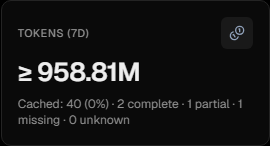
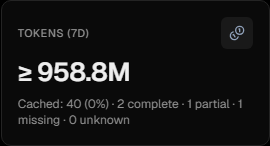
fix(dashboard): round token totals to tenths and remove the timing note

Changed region(s): [[0.3852, 0.411, 0.5333, 0.5753]]

diff --git a/frontend/src/utils/formatters.ts b/frontend/src/utils/formatters.ts
@@ -24,7 +24,9 @@ const compactOptions = {
   maximumFractionDigits: 2,
 } as const;
 const compactFormatter = new Intl.NumberFormat("en-US", compactOptions);
-const compactFloorFormatter = new Intl.NumberFormat("en-US", { ...compactOptions, roundingMode: "floor" });
+const tokenCompactOptions = { ...compactOptions, maximumFractionDigits: 1 } as const;
+const tokenTotalFormatter = new Intl.NumberFormat("en-US", tokenCompactOptions);
+const tokenLowerBoundFormatter = new Intl.NumberFormat("en-US", { ...tokenCompactOptions, roundingMode: "floor" });
 const currencyFormatter = new Intl.NumberFormat("en-US", {
   style: "currency",
   currency: "USD",
@@ -199,10 +201,13 @@ export function formatNumber(value: unknown): string {
   return numeric === null ? "--" : getNumberFormatter().format(numeric);
 }
 
-export function formatCompactNumber(value: unknown, rounding: "nearest" | "floor" = "nearest"): string {
+export function formatCompactNumber(value: unknown): string {
   const numeric = toNumber(value);
-  const formatter = rounding === "floor" ? compactFloorFormatter : compactFormatter;
-  return numeric === null ? "--" : formatter.format(numeric);
+  return numeric === null ? "--" : compactFormatter.format(numeric);
+}
+
+export function formatCompactTokenTotal(tokens: number, complete: boolean): string {
+  return complete ? tokenTotalFormatter.format(tokens) : `≥ ${tokenLowerBoundFormatter.format(tokens)}`;
 }
 
 export function formatCurrency(value: unknown): string {

diff --git a/frontend/src/features/dashboard/components/dashboard-page.tsx b/frontend/src/features/dashboard/components/dashboard-page.tsx
@@ -76,7 +76,6 @@ export function DashboardPage() {
   const [searchParams, setSearchParams] = useSearchParams();
   const queryClient = useQueryClient();
   const isDark = useThemeStore((s) => s.theme === "dark");
-  const refreshSeconds = useDashboardPreferencesStore((s) => s.refreshSeconds);
   const showAccountBurnrate = useDashboardPreferencesStore((s) => s.accountBurnrateEnabled);
   const accountViewMode = useDashboardPreferencesStore((s) => s.accountViewMode);
   const accountListSort = useDashboardPreferencesStore((s) => s.accountListSort);
@@ -471,7 +470,6 @@ export function DashboardPage() {
       ) : (
         <>
           <StatsGrid stats={view.stats} />
-          <p className="text-xs text-muted-foreground">{t("usage.tokens.timing", { seconds: refreshSeconds })}</p>
 
           {view.weeklyCreditPace ? (
             <div className="grid gap-4 xl:grid-cols-[minmax(0,2fr)_minmax(18rem,1fr)]">

diff --git a/frontend/src/features/dashboard/utils.ts b/frontend/src/features/dashboard/utils.ts
@@ -17,6 +17,7 @@ import { summarizeTokenUsage } from "@/utils/token-usage";
 import {
   formatCachedTokensMeta,
   formatCompactNumber,
+  formatCompactTokenTotal,
   formatCurrency,
   formatNumber,
   formatRate,
@@ -736,7 +737,7 @@ export function buildDashboardView(
       label: t("dashboard.stats.tokens", { timeframe: timeframeLabel }),
       value: largeTokenTotal === null
         ? tokenUsage.value
-        : tokenPrefix + formatCompactNumber(largeTokenTotal, tokenUsage.complete ? "nearest" : "floor"),
+        : formatCompactTokenTotal(largeTokenTotal, tokenUsage.complete),
       exactValue: largeTokenTotal === null ? undefined : tokenPrefix + formatNumber(largeTokenTotal),
       meta: `${formatCachedTokensMeta(metrics?.tokens, metrics?.cachedInputTokens)} · ${tokenUsage.note}`,
       comparison: buildStatComparison(metrics?.tokens, comparison?.previous.tokens ?? 0,

diff --git a/frontend/src/features/dashboard/components/stats-grid.test.tsx b/frontend/src/features/dashboard/components/stats-grid.test.tsx
@@ -14,11 +14,11 @@ describe("StatsGrid", () => {
   it("shows the exact lower bound when the token value receives keyboard focus", async () => {
     const user = userEvent.setup();
     render(<StatsGrid stats={[{
-      label: "Tokens (7d)", value: "≥ 958.81M", exactValue: "≥ 958,815,427",
+      label: "Tokens (7d)", value: "≥ 958.8M", exactValue: "≥ 958,815,427",
       icon: Coins, trend: EMPTY_TREND, trendColor: "#8b5cf6",
     }]} />, { wrapper: TooltipProvider });
     await user.tab();
-    expect(screen.getByRole("button", { name: "≥ 958.81M" })).toHaveFocus();
+    expect(screen.getByRole("button", { name: "≥ 958.8M" })).toHaveFocus();
     expect(await screen.findByRole("tooltip")).toHaveTextContent("≥ 958,815,427");
   });
 

diff --git a/frontend/src/features/dashboard/utils.test.ts b/frontend/src/features/dashboard/utils.test.ts
@@ -187,10 +187,10 @@ describe("buildRemainingItems", () => {
 
 describe("dashboard measured token coverage", () => {
   it.each([
-    [1_250, "1.25K", "1.25K", "1,250"],
-    [999_999, "1M", "999.99K", "999,999"],
-    [958_815_427, "958.82M", "958.81M", "958,815,427"],
-    [2_340_000_000, "2.34B", "2.34B", "2,340,000,000"],
+    [1_250, "1.3K", "1.2K", "1,250"],
+    [999_999, "1M", "999.9K", "999,999"],
+    [958_815_427, "958.8M", "958.8M", "958,815,427"],
+    [2_340_000_000, "2.3B", "2.3B", "2,340,000,000"],
   ] as const)("exposes compact and exact token totals for %s", (tokens, compact, lowerBound, exact) => {
     const overview = createDashboardOverview();
     const metrics = overview.summary.metrics!;

diff --git a/frontend/src/features/dashboard/components/dashboard-page.test.tsx b/frontend/src/features/dashboard/components/dashboard-page.test.tsx
@@ -308,6 +308,14 @@ describe("DashboardPage", () => {
     expect(screen.queryByRole("heading", { name: "Accounts" })).not.toBeInTheDocument();
   });
 
+  it("shows the quota cards directly below the summary cards", () => {
+    mockReadyDashboard();
+
+    renderWithProviders(<DashboardPage />);
+
+    expect(screen.getByTestId("stats-grid").nextElementSibling).toBe(screen.getByTestId("usage-donuts"));
+  });
+
   it("renders request-log loading inside its section without hiding overview content", () => {
     mockReadyDashboard({
       data: undefined,

diff --git a/openspec/specs/frontend-architecture/spec.md b/openspec/specs/frontend-architecture/spec.md
@@ -4264,12 +4264,12 @@ Each overview quota card MUST identify its window and measured average. When ava
 
 ### Requirement: Dashboard token total provides compact and exact counts
 
-The overview Tokens card MUST use compact K, M and B notation for large totals. The exact recorded token count MUST be available from the card. For incomplete usage, both presentations MUST retain the ≥ lower-bound indicator and the compact value MUST round down so the displayed bound never exceeds the observed total.
+The overview Tokens card MUST use compact K, M and B notation with at most one fractional digit for large totals. The exact recorded token count MUST be available from the card. For incomplete usage, both presentations MUST retain the ≥ lower-bound indicator and the compact value MUST round down so the displayed bound never exceeds the observed total.
 
 #### Scenario: Partial token total in the weekly overview
 
 - **WHEN** the seven-day token total includes 12,345,678 recorded tokens and some requests lack usage
-- **THEN** the card shows a compact total in millions prefixed with ≥
+- **THEN** the card shows ≥ 12.3M
 - **AND** inspecting the card's total reveals the exact lower bound of 12,345,678 tokens
 
 ### Requirement: Request-log plan badges fit their own column

diff --git a/openspec/changes/archive/2026-11-18-clarify-dashboard-quota-and-tokens/specs/frontend-architecture/spec.md b/openspec/changes/archive/2026-11-18-clarify-dashboard-quota-and-tokens/specs/frontend-architecture/spec.md
@@ -20,12 +20,12 @@ Each overview quota card MUST identify its window and measured average. When ava
 
 ### Requirement: Dashboard token total provides compact and exact counts
 
-The overview Tokens card MUST use compact K, M and B notation for large totals. The exact recorded token count MUST be available from the card. For incomplete usage, both presentations MUST retain the ≥ lower-bound indicator and the compact value MUST round down so the displayed bound never exceeds the observed total.
+The overview Tokens card MUST use compact K, M and B notation with at most one fractional digit for large totals. The exact recorded token count MUST be available from the card. For incomplete usage, both presentations MUST retain the ≥ lower-bound indicator and the compact value MUST round down so the displayed bound never exceeds the observed total.
 
 #### Scenario: Partial token total in the weekly overview
 
 - **WHEN** the seven-day token total includes 12,345,678 recorded tokens and some requests lack usage
-- **THEN** the card shows a compact total in millions prefixed with ≥
+- **THEN** the card shows ≥ 12.3M
 - **AND** inspecting the card's total reveals the exact lower bound of 12,345,678 tokens
 
 ### Requirement: Request-log plan badges fit their own column

diff --git a/openspec/changes/archive/2026-11-18-clarify-dashboard-quota-and-tokens/tasks.md b/openspec/changes/archive/2026-11-18-clarify-dashboard-quota-and-tokens/tasks.md
@@ -2,7 +2,7 @@
 
 - [x] 1.1 Apply consistent percentage formatting to both quota cards and their details, retaining raw measurements and empty states.
 - [x] 1.2 Give forecasts a separate label and adapt the account legend to the available card width and privacy setting.
-- [x] 1.3 Show compact token totals with access to exact recorded counts and the partial-data indicator.
+- [x] 1.3 Show compact token totals with access to exact recorded counts and the partial-data indicator. Remove the refresh-timing note beneath the cards.
 - [x] 1.4 Contain long subscription labels inside the Plan column while keeping adjacent API key text readable.
 - [x] 1.5 Restore the independent, sortable subscription-credit estimate in the account list with the monthly, weekly and primary window rules.
 

diff --git a/openspec/specs/observed-token-usage/spec.md b/openspec/specs/observed-token-usage/spec.md
@@ -86,8 +86,9 @@ estimates explicitly and MUST NOT imply a measured fungible pool of tokens.
 
 ### Requirement: Measurement timing is explicit
 
-Usage displays SHALL explain that actual token counters update after upstream
-usage is received. They MUST NOT claim that visible text deltas reveal hidden
+Displayed token counts SHALL update from reported upstream usage. The dashboard
+overview MUST omit the refresh-timing explanation beneath the summary cards.
+Usage displays MUST NOT claim that visible text deltas reveal hidden
 reasoning, server-side context or cache counts. No character-to-token constant
 SHALL be introduced as an authoritative live usage counter.
 

diff --git a/openspec/changes/archive/2026-11-18-clarify-dashboard-quota-and-tokens/specs/observed-token-usage/spec.md b/openspec/changes/archive/2026-11-18-clarify-dashboard-quota-and-tokens/specs/observed-token-usage/spec.md
@@ -1,0 +1,13 @@
+## MODIFIED Requirements
+
+### Requirement: Measurement timing is explicit
+
+Displayed token counts SHALL update from reported upstream usage. The dashboard
+overview MUST omit the refresh-timing explanation beneath the summary cards.
+Usage displays MUST NOT claim that visible text deltas reveal hidden
+reasoning, server-side context or cache counts. No character-to-token constant
+SHALL be introduced as an authoritative live usage counter.
+
+#### Scenario: Generation is still running
+- **WHEN** the upstream stream has not supplied token usage
+- **THEN** the interface does not present a fabricated exact usage count

diff --git a/openspec/changes/archive/2026-11-18-clarify-dashboard-quota-and-tokens/proposal.md b/openspec/changes/archive/2026-11-18-clarify-dashboard-quota-and-tokens/proposal.md
@@ -15,6 +15,7 @@ The dashboard can expose excessive precision in a quota forecast while rounding 
 
 - `account-quota-presentation` governs the precision of measured percentages and forecasts.
 - `frontend-architecture` governs the quota cards, token summary and request-log layout.
+- `observed-token-usage` governs the removal of the refresh-timing note beneath the summary cards.
 
 ## Impact
 
